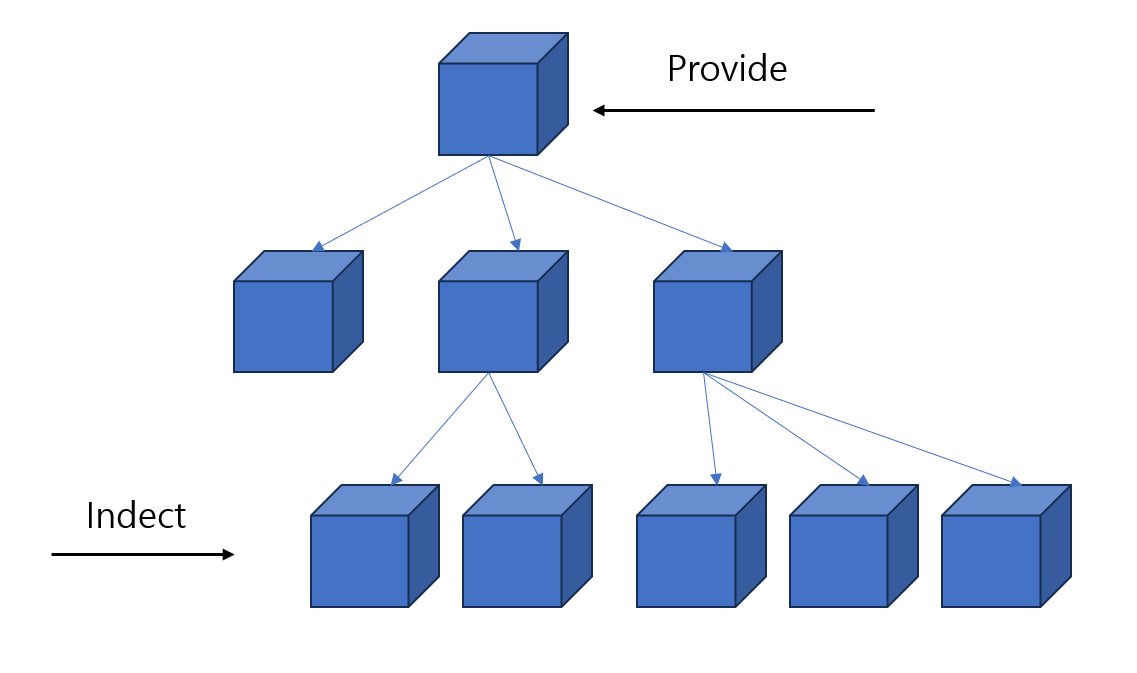
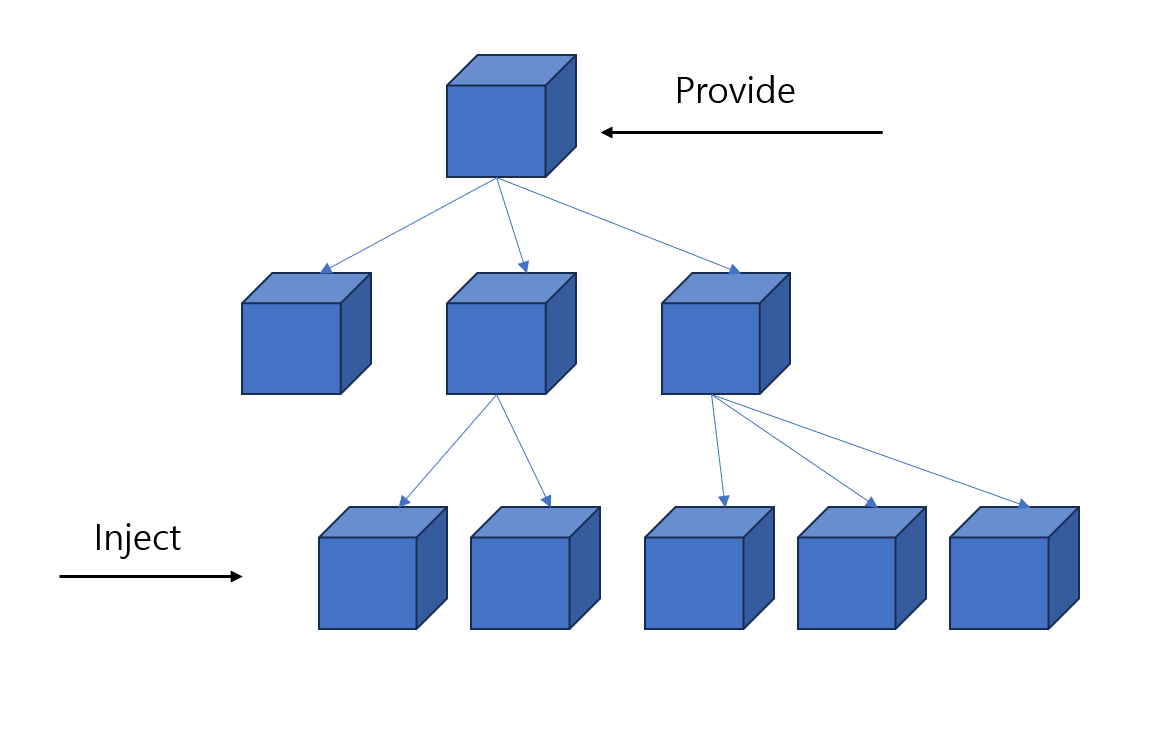
vuex, 배포

diff --git a/_posts/2023-10-15-5.Vuex(v4.x).md b/_posts/2023-10-15-5.Vuex(v4.x).md
@@ -1,0 +1,160 @@
+---
+layout: single
+title:  "[Vue.js] Vuex(v4.x)"
+categories: Vue
+tag: [Vue]
+toc: true
+author_profile: false
+sidebar:
+    nav: "docs"
+search: true   # 검색설정
+---
+
+### Vuex란?
+복잡한 애플리케이션에서 컴포넌트의 수가 많이지면 컴포넌트 간의 데이터 전달이 어려워진다. Vuex는 Vue.js 애플리케이션을 위한 상태관리 패턴 + 라이러브러이다. 모든 커포넌트에 대한 중앙집중식 저장소 역할을 하며 예측 가능한 방식으로 상태를 변경할 수 있다. 
+
+Vuex를 이용하지 않는다면 컴포넌트 간에 데이터를 주고받는 방법은 있지만, 대규모 프로젝트가 될수록 매우 복잡해진다. 데이터를 store에 저장하고, 프로젝트 전체에서 사용할 수 있도록 해주는 것이 Vuex이다. 
+
+### Vuex 설치
+터미널에서 다음 명령어를 통해 설치한다.
+
+`npm install vuex@next --save`
+
+### 시작하기
+
+모든 Vuex 애플리케이션의 중심에는 store가 있다. 저장소는 애플리케이션의 상태를 저장하고 있는 컨테이너다. 
+
+Vuex 저장소가 일반 전역 개체와 두 가지 다른 점이 있다. 
+1. Vue store는 반응형이다. Vue 컴포넌트는 저장소의 상태(state)를 검색할 때 저장소의 상태에 정의된 변수 값의 변경 여부를 바로 알 수 있다. 
+2. 저장소의 상태는 직접 변경할 수 없다. 저장소의 상태를 변경하는 유일한 방법은 명시적인 커밋을 이용한 변이이다. 이렇게 하면 모든 상태에 대한 추적이 가능한 기록이 남을 수 있으며 툴을 사용하여 앱을 더 잘 이해할 수 있다. 
+
+간단한 형태의 store를 만들어보자.
+
+```js
+// D:\VueWorkspace\vue-project\src\store.js
+import { createStore } from 'vuex'
+
+const store = createStore({
+    state (){
+        return{
+            count : 0
+        }
+    },
+    mutations: {
+        increment (state) {
+            state.count++
+        }
+    }
+})
+export default store;
+```
+
+vue 컴포넌트에서는 this.$store로 접근이 가능하다.
+
+```vue
+<template> {% raw %}
+    <p>Count : {{ count }}</p>{% endraw %}
+    <button type="button" @click="increment">Increment</button>
+</template>
+<script>
+export default{ 
+    computed: {
+        count() {
+            return this.$store.state.count;
+        }
+    },
+    methods:{
+        increment() {
+            this.$store.commit('increment');
+        }
+    }
+}
+</script>
+```
+여기서 저장소의 state에 바로 접근해서 변경하는 것이 아니라, commit를 통해서만 변경을 할 수 있다.
+
+그런데 여기까지만 했을 경우 store, state값이 연동이 안됨. 
+====> 
+![Alt text](/assets/images/2023-10-15/main.png)
+main.js에 store 등록해줘야됨. 망할 책
+
+### State
+
+state는 프로젝트 전체에서 공통으로 사용할 변수를 정의하는 곳이다. state에 변수를 정의함으로써, 모든 컴포넌트에서 사용이 가능하다. state 관리를 통해 모든 컴포넌트에서 동일한 값을 사용할 수 있다.
+
+state에 정의된 변수는 Vue 컴포넌트에서는 computed 속성을 이용해서 그 변경사항을 항상 추적할 수 있다.
+
+```vue
+    computed: {
+        count() {
+            return this.$store.state.count;
+        }
+    }
+```
+
+
+### Getters
+
+온라인 쇼핑몰을 생각해보면 장바구니에 상품을 담으면 항상 화면 상단의 장바구니 아이콘에 표기된다. 어떤 화면에서든지 제품을 장바구니에 추가하면 바로 장바구니 아이콘의 제품 수가 증가하는 것을 확인할 수 있다.
+
+장바구니에 담긴 제품 데이터를 저장소의 state에 변수로 관리하고 있다면 장바구니에 담긴 제품 수, 특정 카테고리 제품 리스트 등을 getters를 정의하여 쉽게 가져올 수 있다.
+
+```vue
+const store = createStore({
+    state () {
+        return{
+            count : 0,
+            cart: [{
+              product_id: 1,
+              product_name: "아이폰 거치대",
+              category: "A"
+            }]
+        }
+    },
+    getters: {
+      cartCount: (state) => {
+        return state.cart.length;
+      }
+    },
+```
+store.js에 위처럼 추가.
+
+
+storeAccess에 아래처럼 추가하면 getters에 정의된 값에 접근할 수 있다.
+```vue
+    computed: {
+        count() {
+            return this.$store.state.count;
+        },
+        cartCount(){
+          return this.$store.getters.cartCount;
+        }
+    },
+```
+
+### Mutations
+vuex는 state에 정의된 변수를 직접 변경하는 것은 허용하지 않는다. 반드시 mutations을 이용해서 변경해야 한다. 즉 mutation은 state를 변경시키는 역할을 한다. mutations은 비동기(Async) 처리가 아니라 동기 (Sync) 처리를 통해 state에 정의된 변수의 변경사항을 추적할 수 있게 해준다.
+다음과 같이 mutations에 정의된 함수를 commit를 통해서 호출하는 것으로 저장소의 state에 정의된 변수의 값을 변경할 수 있다.
+
+```vue
+    methods:{
+        increment() {
+            this.$store.commit('increment');
+        }
+    }
+```
+
+### Actions
+actions은 mutations과 매우 유사한 역할을 한다. action을 통해 mutation에 정의된 함수를 실행시킬 수 있다. mutations이 있는데 왜 굳이 actions을 통해서 실행하는지?
+=> actions에 정의된 함수 안에서는 여러 개의 mutations을 실행시킬 수 있으며 mutation과 달리 비동기 작업이 가능하다.
+즉, actions에 등록된 함수는 비동기 처리 후 mutations을 커밋할 수 있어서 저장소에서 비동기 처리 로직을 관리할 수 있게 해준다.
+
+```vue
+`store.js`
+    actions: {
+      increment(context) {
+        //비동기 처리 로직 수행 가능
+        context.commit('increment')
+      }
+    }
+```

diff --git a/_posts/2023-10-16-프로젝트 배포.md b/_posts/2023-10-16-프로젝트 배포.md
@@ -1,0 +1,27 @@
+---
+layout: single
+title:  "[Vue.js] 프로젝트 배포"
+categories: Vue
+tag: [Vue]
+toc: true
+author_profile: false
+sidebar:
+    nav: "docs"
+search: true   # 검색설정
+---
+
+### 프로젝트 빌드(build) 하기
+터미널에서 다음 명령어를 실행해서 배포 파일을 생성한다.
+
+`npm run build`
+
+명령어를 실행하면 다음과 같이 프로젝트 배포를 위한 피일이 프로젝트 루트 디렉토리의 dist 폴더에 생성된다.
+
+![Alt text](/assets/images/2023-10-16/build.png)
+
+생성된 dist 폴더를 보면 css, img, js 폴더와 index.html이 생성된 것을 확인할 수 있다.
+
+![Alt text](/assets/images/2023-10-16/dist.png)
+
+
+서비스를 운영하고자 하는 호스팅 서버에 dist 폴더의 파일을 업로드 해서 서비스를 구동하면 된다. index.html 파일이 vue 프로젝트 실행 파일이 된다.

diff --git a/_posts/2023-10-15-2.컴포넌트심화4.md b/_posts/2023-10-15-2.컴포넌트심화4.md
@@ -15,7 +15,8 @@ search: true   # 검색설정
 
 이런 경우에 사용할 수 있는 것이 Provide/Inject이다. 컴포넌트의 계층 구조가 아무리 복잡하더라도 부모 컴포넌트에서는 provide 옵션을, 자식 컴포넌트에서는 inject 옵션을 통해 데이터를 쉽게 전달할 수 있다.
 
-![Alt text](/assets/images/2023-10-15/Inject.png)
+![Alt text](/assets/images/2023-10-15/inject.png)
+
 
 위 그림에서 제일 위가 ParentComponent, 가운데가 ChildComponent1, 2 제일 아래가 ChildChildComponent1, 2, 3이라고 했을 떄
 props를 사용해서 ChildChildComponent1로 데이터를 전달하려면 ParentComponent -> ChildComponent1 -> ChildChildComponent1 이렇게 3단계를 거쳐서 전달해야 하지만 provide/Inject를 사용하면 한 번에 바로 전달할 수 있다.
